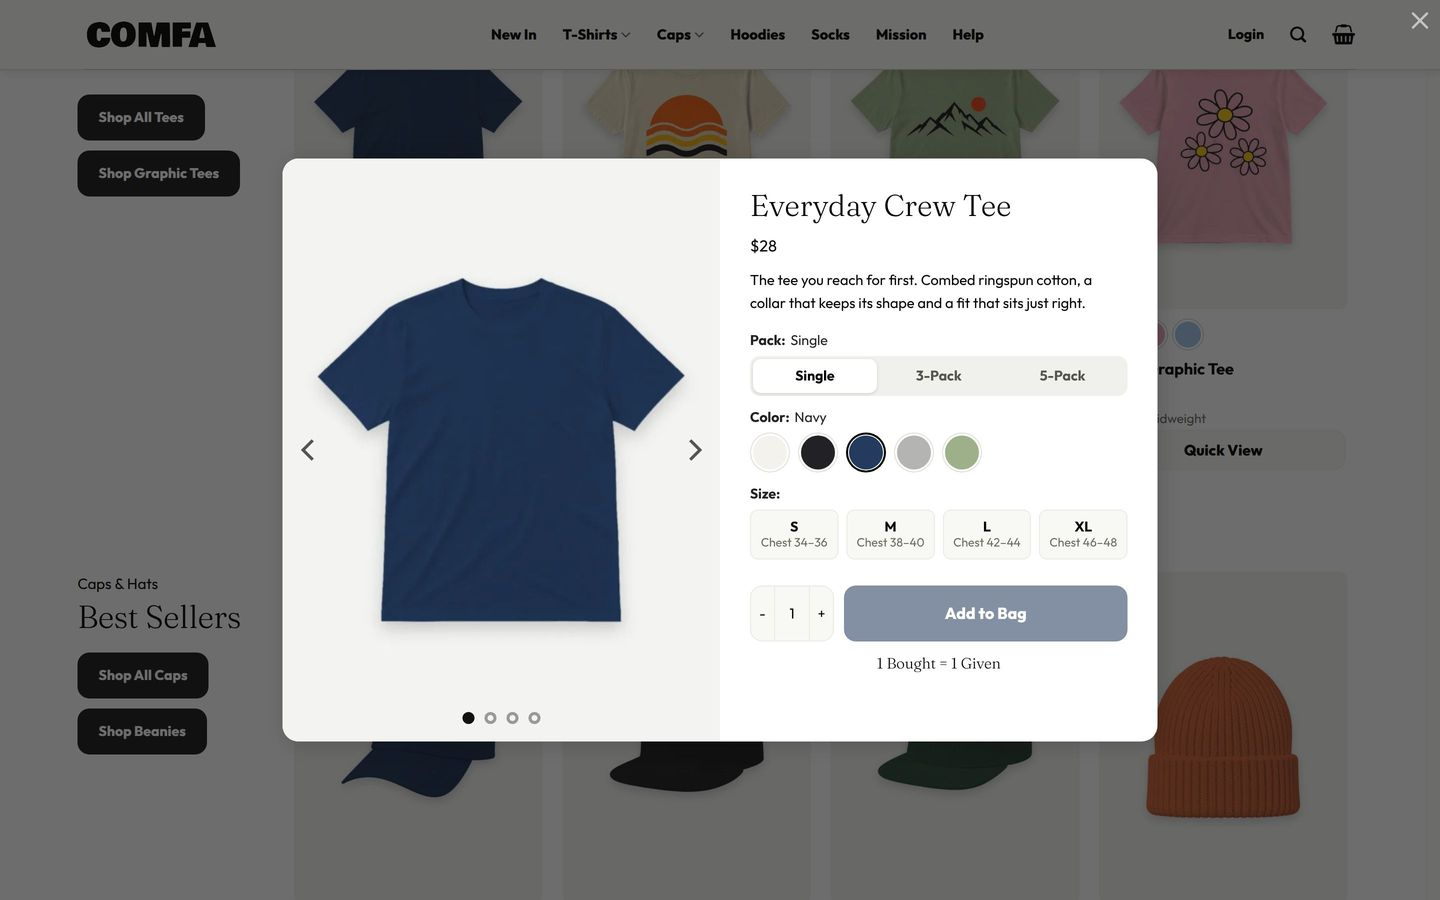
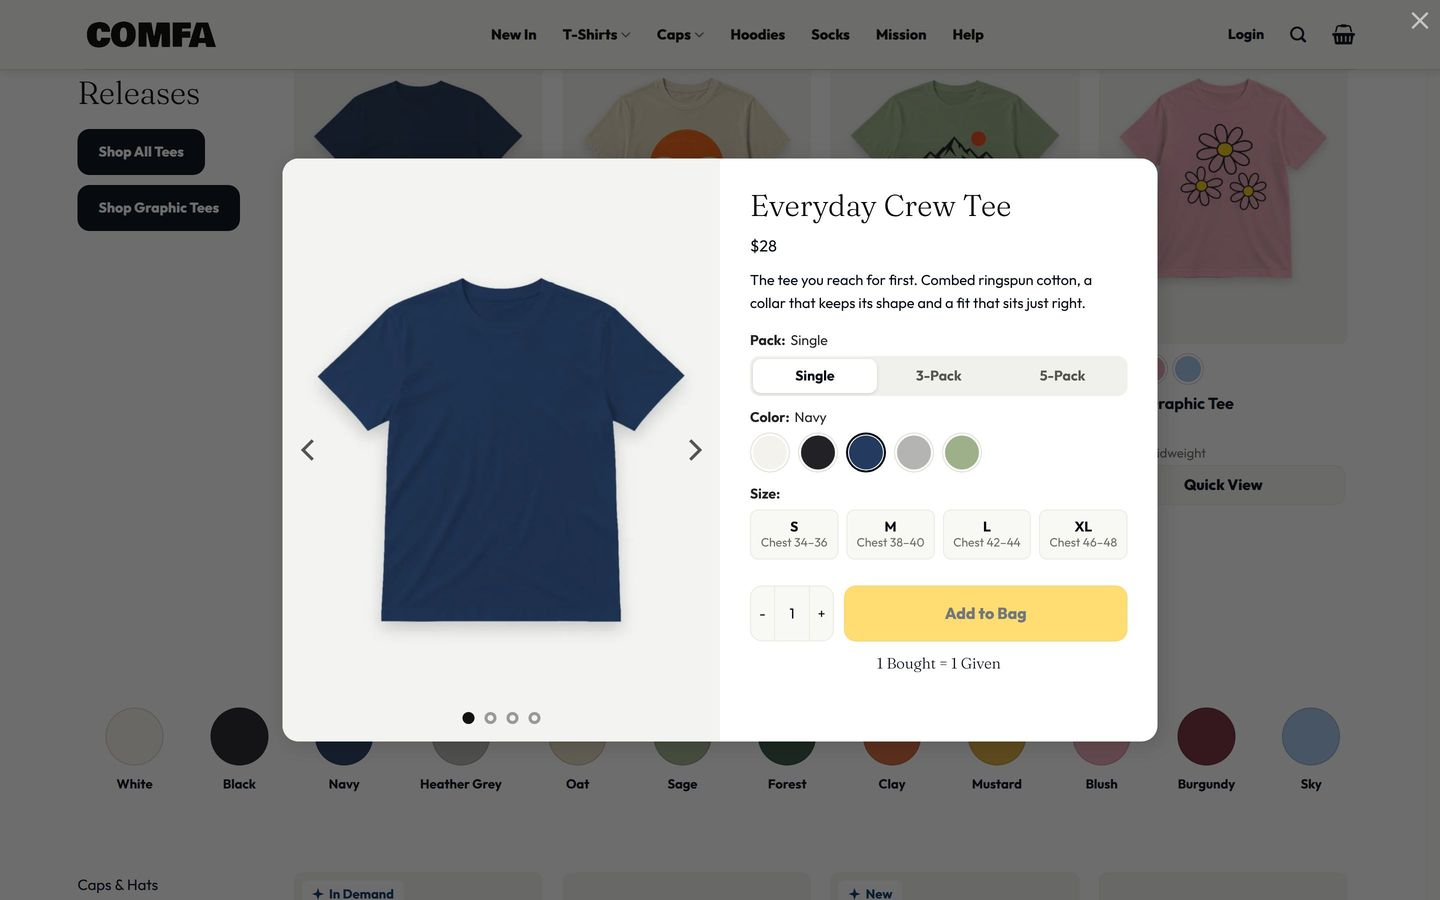
Comfa: light hero with offer sticker, ticker strip, Shop by Colour row, yellow primary buttons

diff --git a/comfa/child-theme/comfa-child/assets/css/comfa.css b/comfa/child-theme/comfa-child/assets/css/comfa.css
@@ -1,18 +1,18 @@
 /* Comfa storefront. Colours, fonts and layout options live in Flatsome Theme Options; this file adds the brand layer. */
 :root {
-	--cf-ink: #030302;
+	--cf-ink: #000814;
 	--cf-page: #fdfcf8;
-	--cf-navy: #1f3557;
-	--cf-navy-deep: #1a2235;
+	--cf-navy: #003566;
 	--cf-cream: #ecebdc;
 	--cf-card: #f3f3f1;
 	--cf-soft: #f8f8f4;
 	--cf-line: #e2e1d8;
 	--cf-muted: #6b6b66;
-	--cf-yellow: #e9b94d;
+	--cf-yellow: #ffc300;
+	--cf-gold: #ffd60a;
 	--cf-green: #b2c693;
 	--cf-orange: #f04e23;
-	--cf-blue: #3860be;
+	--cf-blue: #003566;
 	--cf-sky: #a0c7ff;
 	--cf-red: #d4240d;
 	--cf-radius: 12px;
@@ -26,7 +26,7 @@
 .cf-serif { font-family: var(--cf-serif); font-weight: 300; letter-spacing: -.01em; }
 .cf-store .button, .cf-store button.button, .cf-store input[type="submit"] { border-radius: var(--cf-radius); font-weight: 800; letter-spacing: 0; text-transform: none; box-shadow: none; }
 .cf-store .button.cf-btn-light { background: #fff; color: var(--cf-ink); min-height: 48px; padding: 0 22px; font-size: 16px; line-height: 48px; margin: 0 4px 8px; }
-.cf-store .button.cf-btn-dark { background: #1b1b1b; color: #fff; min-height: 44px; padding: 0 20px; font-size: 14px; line-height: 44px; }
+.cf-store .button.cf-btn-dark { background: var(--cf-ink); color: #fff; min-height: 44px; padding: 0 20px; font-size: 14px; line-height: 44px; }
 .cf-store .button.cf-btn-light:hover { background: var(--cf-cream); }
 .cf-store .button.cf-btn-dark:hover { background: var(--cf-navy); }
 .cf-store .button.cf-btn-outline { border-width: 1px; font-size: 14px; }
@@ -62,10 +62,10 @@
 .cf-chips .col, .cf-styles .col, .cf-shapes .col { padding-bottom: 0; }
 .cf-hero__row { max-width: 100% !important; }
 .cf-hero__image img { border-radius: var(--cf-radius); width: 100%; aspect-ratio: 4 / 3; object-fit: cover; }
-.cf-hero__copy > .col-inner { padding: 24px 6%; }
-.cf-hero__eyebrow { font-size: 28px; margin-bottom: 14px; color: #fff; }
-.cf-hero__title { font-size: clamp(40px, 6.7vw, 96px); line-height: .82; color: #fff; margin-bottom: 22px; }
-.cf-hero__sub { font-size: clamp(17px, 1.7vw, 24px); color: #fff; margin-bottom: 22px; }
+.cf-hero__copy > .col-inner { padding: 24px 6% 24px 12%; }
+.cf-hero__eyebrow { display: flex; align-items: center; gap: 12px; font-size: 20px; margin-bottom: 18px; }
+.cf-hero__title { font-size: clamp(40px, 5vw, 76px); line-height: .9; color: var(--cf-ink); margin-bottom: 22px; }
+.cf-hero__sub { font-size: clamp(17px, 1.5vw, 22px); max-width: 30em; margin-bottom: 24px; }
 .cf-statement__title { font-size: clamp(34px, 4.5vw, 64px); margin-bottom: 10px; }
 .cf-statement__sub { font-size: clamp(17px, 1.6vw, 22px); margin: 0; }
 .cf-rail__label { font-size: 15px; margin-bottom: 4px; }
@@ -210,8 +210,8 @@
 .cf-size-note { display: block; font-size: 12px; font-weight: 400; color: var(--cf-muted); }
 .single_variation_wrap .woocommerce-variation-price { display: none; }
 .cf-store form.cart { margin-bottom: 10px; }
-.cf-store .single_add_to_cart_button { flex: 1; min-height: 56px; margin: 0; border-radius: var(--cf-radius); background: var(--cf-navy); color: #fff; font-size: 16px; }
-.cf-store .single_add_to_cart_button:hover { background: #162844; }
+.cf-store .single_add_to_cart_button { flex: 1; min-height: 56px; margin: 0; border-radius: var(--cf-radius); background: var(--cf-yellow); color: var(--cf-ink); font-size: 16px; }
+.cf-store .single_add_to_cart_button:hover { background: var(--cf-gold); }
 .cf-store form.cart .woocommerce-variation-add-to-cart, .cf-store form.cart:not(.variations_form) { display: flex; gap: 10px; align-items: stretch; }
 .cf-store form.cart .quantity { margin: 0; }
 .cf-store form.cart .quantity .qty, .cf-store form.cart .quantity .button { height: 56px; min-height: 56px; }
@@ -259,7 +259,7 @@
 .cf-bag-progress__bar { height: 8px; border-radius: 8px; background: #e4e3da; overflow: hidden; }
 .cf-bag-progress__bar span { display: block; height: 100%; border-radius: 8px; background: var(--cf-navy); transition: width .3s; }
 .cf-bag-progress p.cf-bag-progress__give { margin: 8px 0 0; font-family: var(--cf-serif); font-weight: 300; }
-.cf-store .checkout-button, .cf-store #place_order, .cf-store .widget_shopping_cart .button.checkout { background-color: var(--cf-navy) !important; color: #fff; min-height: 52px; font-size: 16px; }
+.cf-store .checkout-button, .cf-store #place_order, .cf-store .widget_shopping_cart .button.checkout { background-color: var(--cf-yellow) !important; color: var(--cf-ink); min-height: 52px; font-size: 16px; }
 .cf-store .widget_shopping_cart .button:not(.checkout) { background: var(--cf-soft); color: var(--cf-ink); border: 1px solid #ecebe3; }
 .cf-store .cart-sidebar .cart_totals, .cf-store .checkout-sidebar .col-inner, .cf-store .cart-collaterals .cart_totals { background: var(--cf-soft); border-radius: var(--cf-radius); }
 .cf-store input[type="text"], .cf-store input[type="email"], .cf-store input[type="tel"], .cf-store input[type="password"], .cf-store select, .cf-store textarea { border-radius: 8px; box-shadow: none; }
@@ -283,7 +283,7 @@
 .cf-price .woocommerce-Price-currencySymbol, .cf-card-price .woocommerce-Price-currencySymbol { font-size: inherit; vertical-align: baseline; margin: 0; }
 .variations_form .variations tr, .variations_form .variations th, .variations_form .variations td { border: 0 !important; }
 .variations_form .single_variation_wrap, .variations_form .woocommerce-variation { margin: 0; }
-.cf-store .single_add_to_cart_button.disabled, .cf-store .single_add_to_cart_button:disabled { background: var(--cf-navy); opacity: .55; }
+.cf-store .single_add_to_cart_button.disabled, .cf-store .single_add_to_cart_button:disabled { background: var(--cf-yellow); opacity: .55; }
 .cf-product-story .section > .section-content > .row { margin-left: auto !important; margin-right: auto !important; }
 #shop-sidebar .woocommerce-widget-layered-nav-list__item .ux-swatch-widget-layered-nav-list__graphic ~ a::before, #shop-sidebar li.wc-layered-nav-term a:has(.ux-swatch)::before { display: none; }
 
@@ -302,7 +302,7 @@
 .product-lightbox .product_meta, .product-lightbox .cf-size-guide-link, .product-lightbox .is-divider { display: none; }
 .product-lightbox .product-lightbox-inner { padding: 28px; }
 .product-lightbox .product-title, .product-lightbox h1 { font-family: var(--cf-serif); font-weight: 300; font-size: 30px; line-height: 1.15; margin-bottom: 8px; }
-.cf-store .single_add_to_cart_button.button { background-color: var(--cf-navy) !important; color: #fff; }
+.cf-store .single_add_to_cart_button.button { background-color: var(--cf-yellow) !important; color: var(--cf-ink); }
 .mfp-content .product-lightbox { border-radius: 16px; overflow: hidden; }
 
 .cf-mega > .section-content > .row { max-width: 1330px; margin-left: auto !important; margin-right: auto !important; }
@@ -334,4 +334,43 @@
 	.single-product .product-info .product-title { font-size: 28px; }
 	.cf-footer__col { margin-top: 8px; }
 	.cf-impact__text { max-width: none; margin-top: 18px; }
+}
+
+/* ---------- Comfa signatures: hero sticker, ticker, colour row ---------- */
+.cf-store .button.cf-btn-cta, .cf-store .button.cf-btn-ghost { min-height: 52px; padding: 0 26px; font-size: 16px; line-height: 48px; margin: 0 8px 8px 0; border: 2px solid var(--cf-ink); }
+.cf-store .button.cf-btn-cta { background: var(--cf-yellow); color: var(--cf-ink); box-shadow: 4px 4px 0 var(--cf-ink); }
+.cf-store .button.cf-btn-cta:hover { background: var(--cf-gold); }
+.cf-store .button.cf-btn-ghost { background: transparent; color: var(--cf-ink); }
+.cf-store .button.cf-btn-ghost:hover { background: var(--cf-ink); color: #fff; }
+.cf-mark { background: linear-gradient(transparent 58%, var(--cf-yellow) 58%, var(--cf-yellow) 92%, transparent 92%); }
+.cf-hero__media > .col-inner { position: relative; }
+.cf-hero__sticker { position: absolute; left: -44px; bottom: 9%; width: 148px; height: 148px; margin: 0; display: flex; flex-direction: column; align-items: center; justify-content: center; gap: 2px; border-radius: 50%; border: 2px solid var(--cf-ink); background: var(--cf-yellow); color: var(--cf-ink); text-align: center; line-height: 1.1; transform: rotate(-10deg); }
+.cf-hero__sticker strong { font-family: var(--cf-display); font-weight: 400; font-size: 24px; text-transform: uppercase; }
+.cf-hero__sticker span { font-size: 13px; }
+.cf-hero__sticker em { font-style: normal; font-weight: 800; font-size: 13px; letter-spacing: .06em; }
+.cf-ticker { overflow: hidden; }
+.cf-ticker__track { display: flex; width: max-content; animation: cf-ticker 36s linear infinite; }
+.cf-ticker:hover .cf-ticker__track { animation-play-state: paused; }
+.cf-ticker__group { display: flex; flex-shrink: 0; }
+.cf-ticker__item { display: flex; align-items: center; padding: 13px 0; font-family: var(--cf-display); font-size: 17px; text-transform: uppercase; color: #fff; white-space: nowrap; }
+.cf-ticker__item::after { content: "\2726"; margin: 0 26px; color: var(--cf-yellow); font-size: 14px; }
+@keyframes cf-ticker { to { transform: translateX(-50%); } }
+.cf-colors__title { font-size: 32px; margin-bottom: 20px; }
+.cf-color-nav { display: flex; flex-wrap: wrap; justify-content: center; gap: 18px 26px; list-style: none; margin: 0; padding: 0; }
+.cf-color-nav li { margin: 0; }
+.cf-color-nav a { display: flex; flex-direction: column; align-items: center; gap: 8px; font-size: 13px; font-weight: 600; color: var(--cf-ink); }
+.cf-color-nav__dot { width: 58px; height: 58px; border-radius: 50%; border: 1px solid rgba(0, 0, 0, .14); transition: transform .15s ease, box-shadow .15s ease; }
+.cf-color-nav a:hover .cf-color-nav__dot { transform: translateY(-3px); box-shadow: 0 0 0 2px var(--cf-page), 0 0 0 4px var(--cf-ink); }
+@media (prefers-reduced-motion: reduce) {
+	.cf-ticker__track { animation: none; width: auto; flex-wrap: wrap; }
+	.cf-ticker__group[aria-hidden] { display: none; }
+	.cf-ticker__group { flex-wrap: wrap; justify-content: center; }
+}
+@media (max-width: 849px) {
+	.cf-hero__sticker { left: auto; right: 10px; bottom: 10px; width: 112px; height: 112px; }
+	.cf-hero__sticker strong { font-size: 18px; }
+	.cf-hero__sticker span, .cf-hero__sticker em { font-size: 11px; }
+	.cf-ticker__item { font-size: 14px; padding: 10px 0; }
+	.cf-color-nav { gap: 14px 16px; }
+	.cf-color-nav__dot { width: 46px; height: 46px; }
 }

diff --git a/comfa/child-theme/comfa-child/inc/shortcodes.php b/comfa/child-theme/comfa-child/inc/shortcodes.php
@@ -55,3 +55,37 @@ add_action(
 		$order->save();
 	}
 );
+
+// Scrolling strip: [cf_ticker text="First phrase|Second phrase"]. The second copy only fills the loop.
+add_shortcode(
+	'cf_ticker',
+	function ( $atts ) {
+		$atts  = shortcode_atts( array( 'text' => '' ), $atts, 'cf_ticker' );
+		$items = array_filter( array_map( 'trim', explode( '|', $atts['text'] ) ) );
+		if ( ! $items ) {
+			return '';
+		}
+		$group = '';
+		foreach ( $items as $item ) {
+			$group .= '<span class="cf-ticker__item">' . esc_html( $item ) . '</span>';
+		}
+		return '<div class="cf-ticker__track"><div class="cf-ticker__group">' . $group . '</div><div class="cf-ticker__group" aria-hidden="true">' . $group . '</div></div>';
+	}
+);
+
+// Colour circles linking to the shop filtered by that colour: [cf_color_nav].
+add_shortcode(
+	'cf_color_nav',
+	function () {
+		$terms = get_terms( array( 'taxonomy' => 'pa_color', 'hide_empty' => true ) );
+		if ( is_wp_error( $terms ) || ! $terms ) {
+			return '';
+		}
+		$html = '';
+		foreach ( $terms as $term ) {
+			$url   = add_query_arg( 'filter_color', $term->slug, wc_get_page_permalink( 'shop' ) );
+			$html .= '<li><a href="' . esc_url( $url ) . '"><span class="cf-color-nav__dot" style="background-color:' . esc_attr( sanitize_hex_color( get_term_meta( $term->term_id, 'ux_color', true ) ) ) . '"></span>' . esc_html( $term->name ) . '</a></li>';
+		}
+		return '<ul class="cf-color-nav">' . $html . '</ul>';
+	}
+);

diff --git a/comfa/setup/seed.php b/comfa/setup/seed.php
@@ -401,14 +401,14 @@ set_theme_mod( 'nav_menu_locations', $cf_locations );
 $cf_mods = array(
 	'site_logo'                   => cf_seed_asset( 'logo.png' ),
 	'site_logo_sticky'            => cf_seed_asset( 'logo.png' ),
-	'color_primary'               => '#1f3557',
-	'color_secondary'             => '#1b1b1b',
+	'color_primary'               => '#003566',
+	'color_secondary'             => '#000814',
 	'color_success'               => '#3d7a52',
 	'color_alert'                 => '#d4240d',
 	'color_texts'                 => '#030302',
 	'type_headings_color'         => '#030302',
 	'color_links'                 => '#030302',
-	'color_links_hover'           => '#3860be',
+	'color_links_hover'           => '#003566',
 	'body_bg'                     => '#fdfcf8',
 	'body_layout'                 => 'full-width',
 	'site_width'                  => '1330',
@@ -449,7 +449,7 @@ $cf_mods = array(
 	'nav_spacing'                 => 'xlarge',
 	'nav_uppercase'               => 0,
 	'type_nav_color'              => '#030302',
-	'type_nav_color_hover'        => '#3860be',
+	'type_nav_color_hover'        => '#003566',
 	'dropdown_style'              => 'simple',
 	'dropdown_border_enabled'     => 0,
 	'header_search_style'         => 'lightbox',

diff --git a/comfa/DESIGN_SPEC.md b/comfa/DESIGN_SPEC.md
@@ -7,13 +7,14 @@ Comfa is a Flatsome + WooCommerce storefront for printed tees, caps, hoodies and
 | Token | Value | Used for |
 | --- | --- | --- |
 | Page | `#fdfcf8` | body and header background |
-| Ink | `#030302` | text, dark buttons (`#1b1b1b`) |
-| Navy | `#213858` top bar, `#1a2235` hero, `#1f3557` Add to Bag and checkout |
+| Ink | `#000814` | text, dark buttons, button outlines |
+| Navy | `#213858` top bar, `#003566` secondary buttons, links, savings and badges |
 | Cream | `#ecebdc` | collection banner, mobile chips, story band |
 | Card | `#f3f3f1` | product image background |
 | Soft | `#f8f8f4` | Quick View button, size buttons, info card |
-| Yellow / Green | `#e9b94d` / `#b2c693` | giving bands |
-| Accents | blue `#3860be` savings and badges, red `#d4240d` promo line, orange `#f04e23` wavy underline, sky `#a0c7ff` sign-up button |
+| Yellow | `#ffc300`, hover `#ffd60a` | Add to Bag, checkout and hero buttons, hero sticker, headline underline |
+| Giving bands | `#e9b94d` / `#b2c693` | yellow and green home bands |
+| Accents | red `#d4240d` promo line, orange `#f04e23` wavy underline, sky `#a0c7ff` sign-up button |
 | Footer | `#1b1b1b`, tag chips `#312b2b` |
 | Radius | 12 px tiles and buttons, 8 px cards and chips |
 
@@ -31,7 +32,7 @@ Outfit and Fraunces are set in Flatsome > Theme Options > Typography; Bowlby One
 
 **Header:** two-line navy promo bar, cream sticky header with wordmark left, centred navigation, Login / search / bag right. T-Shirts and Caps open full-width mega menus (UX Blocks). Mobile: menu and search left, wordmark centre, account and bag right.
 
-**Home (UX Builder page):** category chips → navy split hero → four style tiles → "One Bought = One Given" statement → two product rails (intro column + four cards) → six shape tiles → yellow giving band with blob counter → green "Comfort Beyond Tees" tiles → dark footer with sign-up, link columns, guarantee and tag chips.
+**Home (UX Builder page):** category chips → cream hero (copy left, image right, round offer sticker) → four style tiles → scrolling ticker strip → product rail → "Shop by Colour" circles linking to the colour filter → product rail (intro column + four cards each) → six shape tiles → yellow giving band with blob counter → green "Comfort Beyond Tees" tiles → dark footer with sign-up, link columns, guarantee and tag chips.
 
 **Product card:** grey 3:4 image, badge pill, Flatsome colour swatches (swap the image on click), name, price with struck regular price and "10% Pack Savings", "Unisex · Midweight" line, full-width Quick View.
 

diff --git a/comfa/README.md b/comfa/README.md
@@ -27,6 +27,7 @@ Script chép child theme, ảnh và nội dung UX Builder vào site, kích hoạ
 
 - **Trang chủ, footer, mega menu, 404, khối giới thiệu sản phẩm (`pdp-story`):** sửa bằng UX Builder.
 - **Màu, font, header, layout danh mục và sản phẩm:** Flatsome > Theme Options.
+- **Dải chữ chạy trên trang chủ:** shortcode `[cf_ticker text="Câu 1|Câu 2"]`. **Hàng "Shop by Colour":** shortcode `[cf_color_nav]`, tự lấy các màu đang có sản phẩm và dẫn tới trang Shop đã lọc theo màu đó.
 - **Sản phẩm:** sản phẩm biến thể chuẩn của WooCommerce với ba thuộc tính Pack, Color, Size. Giá gói là giá khuyến mãi của biến thể; nhãn "10% Pack Savings" được tính từ đó. Gói mặc định của mỗi sản phẩm là gói rẻ nhất (Single); thẻ sản phẩm hiện giá này, và sắp xếp, lọc theo giá cũng tính theo giá thấp nhất. Ô màu và ô size dùng tính năng Swatches có sẵn của Flatsome.
 - **Nhãn "In Demand" / "New"** và dòng Product Highlight: custom field `_cf_badge` và `_cf_highlight` của sản phẩm. Ghi chú dưới size: `_cf_size_notes`.
 - **Ngưỡng freeship, mã chào mừng, dòng chữ trên thanh khuyến mãi:** filter `cf_settings` (xem `inc/setup.php`).
